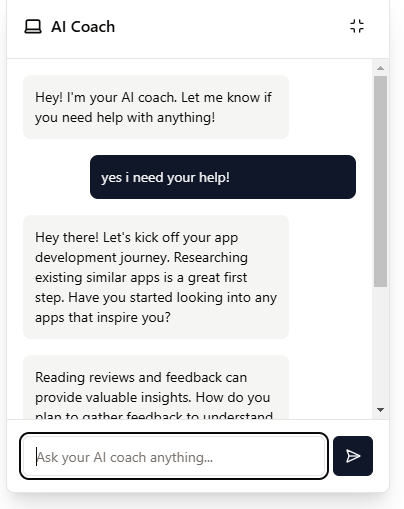
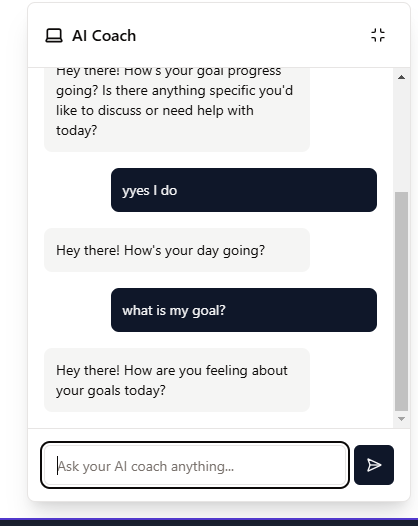
Agent query: Can you try chatting with the AI coach again? Does it now respond more directly to what you say?
Enhance coaching advice functionality by incorporating user messages and improving prompt structure for more natural and responsive conversations.

Screenshot: https://storage.googleapis.com/screenshot-production-us-central1/5cbcd047-3b39-438f-8057-f5204b920970/03c9043d-b9b9-47e0-8080-278ebbcf7058.jpg

diff --git a/server/coaching.ts b/server/coaching.ts
@@ -5,42 +5,45 @@ const openai = new OpenAI({
   apiKey: process.env.OPENAI_API_KEY_2,
 });
 
-export async function getCoachingAdvice(goal: Goal, tasks: Task[]) {
+export async function getCoachingAdvice(goal: Goal, tasks: Task[], userMessage: string) {
   const completedTasks = tasks.filter(t => t.completed).length;
   const totalTasks = tasks.length;
   const progress = Math.round((completedTasks / totalTasks) * 100);
 
-  const prompt = `You are an empathetic and supportive AI coach named Coach. You're having a natural conversation with the user who is working on their goals. You have access to the following context, but only reference it when relevant to the conversation:
+  const prompt = `You are an empathetic and supportive AI coach having a conversation with a user. Your role is to be helpful and responsive to what they're saying.
 
-Available context (use only when relevant):
+Current user message: "${userMessage}"
+
+Goal context (only reference when directly relevant to the conversation):
 Goal: "${goal.title}"
 Progress: ${progress}% complete
 Upcoming tasks: ${tasks.filter(t => !t.completed).map(t => `- ${t.title}`).join('\n')}
 
-Guidelines for your responses:
-1. Focus on being a supportive conversation partner first
-2. Keep responses natural and brief (1-2 sentences per message)
-3. Ask questions to understand the user's needs
-4. Only mention goal/task details when directly relevant to the user's question
-5. If the user says they need help, ask what specific help they need
-6. Break longer responses into multiple short messages for a natural chat flow
+Conversation guidelines:
+1. Focus on responding directly to what the user just said
+2. If they ask for help, ask what specific help they need
+3. If they express confusion or frustration, acknowledge their feelings and offer support
+4. Only mention tasks or progress if the user specifically asks about them
+5. Keep responses conversational and brief (1-2 sentences)
+6. Ask follow-up questions to better understand their needs
+
+Response format:
+{
+  "messages": ["your response", "follow up question"]
+}
 
 Example good responses:
 User: "I need help"
-Response: ["Hey! I'm here to help. What specific aspect would you like assistance with?"]
+Response: ["I'm here to help! What specific aspect would you like assistance with?"]
 
-User: "I'm stuck on the current task"
-Response: ["I see you're working on [current task]. What's the main challenge you're facing with it?"]
+User: "I don't know where to start"
+Response: ["I understand it can feel overwhelming at first. Would you like to break down your first task together?"]
 
-Respond with a JSON object:
-{
-  "messages": ["first message", "second message (if needed)", "third message (if needed)"]
-}
-
-Key reminders:
+Remember:
+- Respond directly to what the user just said
 - Be conversational and natural
-- Ask questions to keep the dialogue going
-- Only reference goal/task details when directly relevant`;
+- Ask relevant follow-up questions
+- Only mention goal details if specifically relevant`;
 
   const response = await openai.chat.completions.create({
     model: "gpt-3.5-turbo",

diff --git a/server/routes.ts b/server/routes.ts
@@ -151,7 +151,7 @@ export function registerRoutes(app: Express): Server {
         return res.status(404).json({ error: "Goal not found" });
       }
 
-      const coaching = await getCoachingAdvice(goal, goal.tasks);
+      const coaching = await getCoachingAdvice(goal, goal.tasks, message);
       
       // If response is an array of messages, send them one by one
       const messages = Array.isArray(coaching.messages) ? coaching.messages : [coaching.message];
